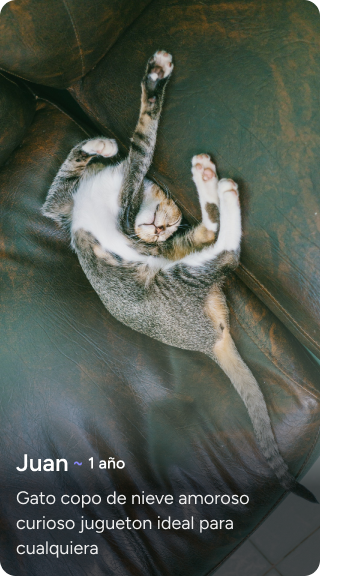
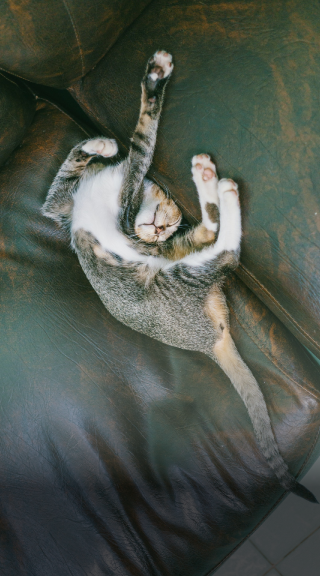
adding match component

diff --git a/app/matches/page.tsx b/app/matches/page.tsx
@@ -17,7 +17,14 @@ const HomeRegister = async () => {
         </div>
         <Link href={`/matches/${1}`}><img src={arrow.src} alt="next" className="full-black px-[8px] py-[8px] w-[40px] h-[40px]" /></Link>
       </div>
-      <img src={catTinder.src} alt="cat" className="my-[16px]" />
+      <div className="w-full my-[16px] relative flex items-center justify-center rounded-[16px]">
+        <img src={catTinder.src} alt="cat" className="w-full h-[576px]" />
+        <p className="card-title absolute mx-[16px]"></p>
+        <p className="absolute bottom-[16px] mx-[16px]">
+          <span className="card-title block mb-[8px]">Juan<span className='text-[#6262DB] mx-[4px]'>~</span><span className="card-subtitle">1 año</span></span>
+          <span className="card-text ">Gato copo de nieve amoroso curioso jugueton ideal para cualquiera</span>
+        </p>
+      </div>
       <div className="flex mx-[84px]">
         <button className="bg-black text-white px-6 py-2 mr-[24px]" type="submit"> <img src={close.src} alt="not match" /> </button>
         <button className="bg-primary text-white px-6 py-2 w-[112px]" type="submit"> <img src={heart.src} alt="match" /> </button>

diff --git a/app/css/components.css b/app/css/components.css
@@ -57,3 +57,24 @@
 .image-tinder {
     border-radius: 16px;
 }
+
+.card-title {
+    font-style: normal;
+    font-weight: 600;
+    font-size: 24px;
+    color: #FFFFFF;
+}
+
+.card-subtitle {
+    font-style: normal;
+    font-weight: 600;
+    font-size: 16px;
+    color: #FFFFFF;
+}
+
+.card-text {
+    font-style: normal;
+    font-weight: 400;
+    font-size: 18px;
+    color: #EEEEEE;
+}
